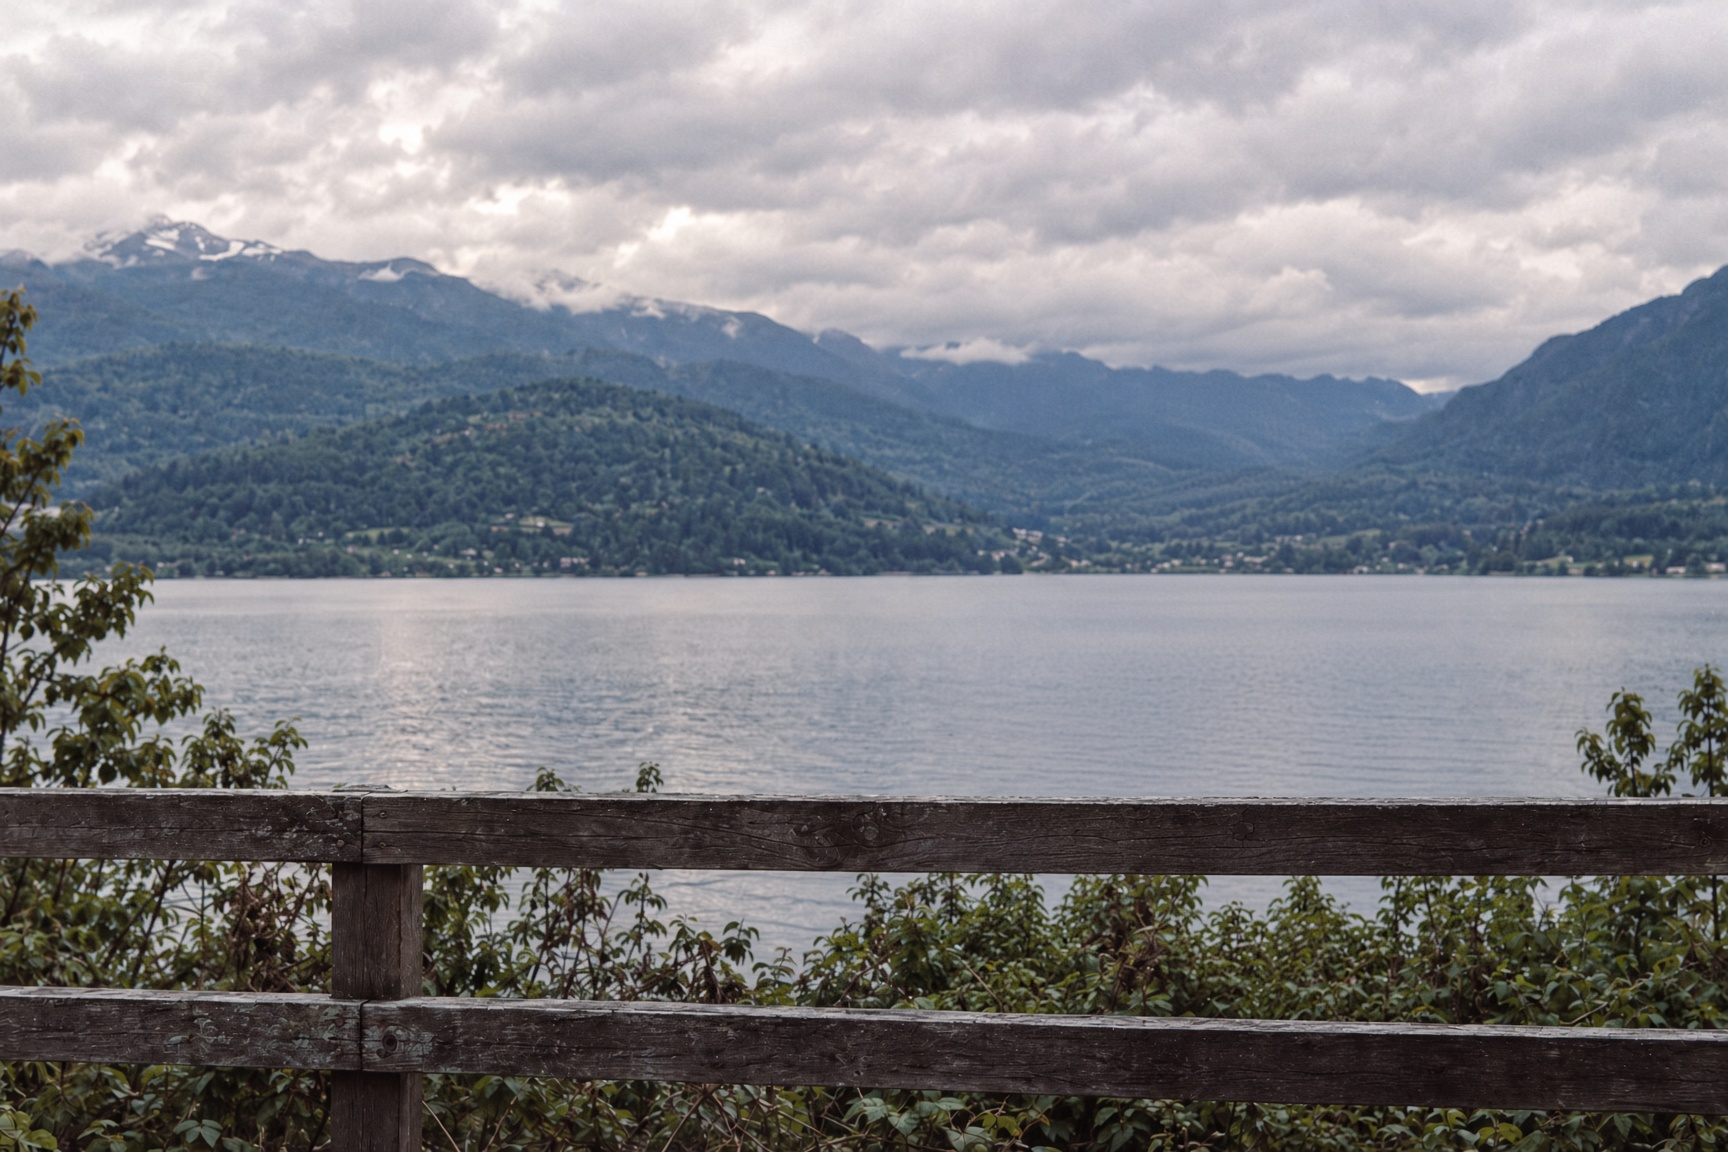
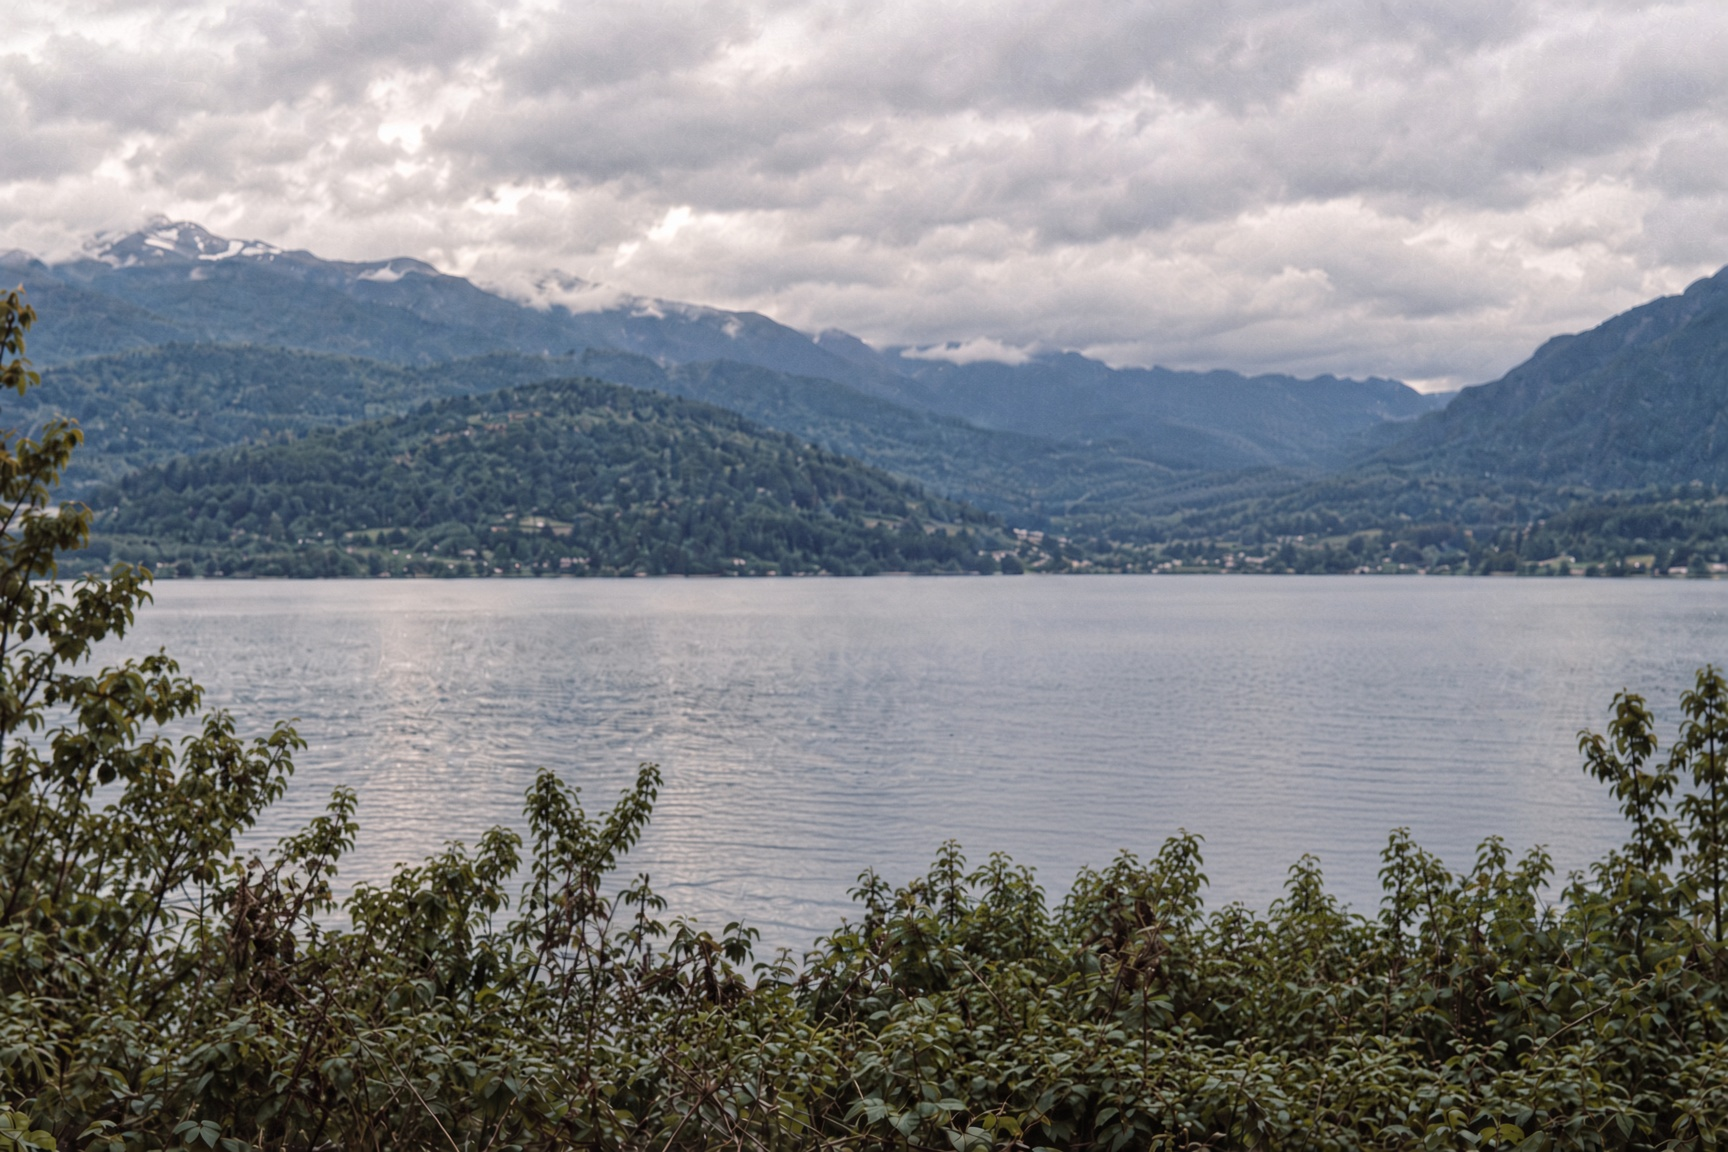
Rework hero: separated background, layered parallax, film grain and light pass
- New fully separated lake background; name anchored just above the water line
- Foreground pinned to the hero's bottom edge, background drifts down on scroll
  (eased, window-level pointer parallax, no snap on nav hover)
- Grain animated at 30fps from pre-rendered tiles; hero-only grain that thickens
  with scroll
- Old-film light pass on the hero: edge light leak, halation, vignette, dust and
  scratches, all intensifying as the hero scrolls away
- Plain-text nav with text shadow; lowercase UI copy; removed hero footer and
  "selected work" link
- INFORM entry renamed Inform / Evotess

Claude-Session: https://claude.ai/code/session_013LXVM2RLP5c624gmEQ1ZhY

diff --git a/public/hero-film.js b/public/hero-film.js
@@ -1,0 +1,140 @@
+/* Old-film light pass for the hero, hero only.
+   Two canvases: "light" (mix-blend-mode: screen) carries light leaks and halation; "dark" (normal blend) carries the vignette, dust and hairs.
+   Runs at 30fps, pauses when hidden or off-screen, freezes to a still frame
+   under prefers-reduced-motion. */
+(() => {
+  const hero = document.querySelector('.hero');
+  const light = document.querySelector('.hero-film-light');
+  const dark = document.querySelector('.hero-film-dark');
+  if (!hero || !(light instanceof HTMLCanvasElement) || !(dark instanceof HTMLCanvasElement)) return;
+  const lc = light.getContext('2d'), dc = dark.getContext('2d');
+  if (!lc || !dc) return;
+
+  const FPS = 30;
+  const reduced = matchMedia('(prefers-reduced-motion: reduce)');
+  let W = 0, H = 0, raf = 0, last = 0, visible = true, t0 = performance.now();
+  const rnd = (a, b) => a + Math.random() * (b - a);
+
+  /* Dust: short-lived specks and hairs. Scratches: taller lines that jitter for a few frames. */
+  const marks = [];
+
+  function resize() {
+    const b = hero.getBoundingClientRect();
+    const dpr = Math.min(window.devicePixelRatio || 1, 1.5);
+    W = Math.max(1, Math.round(b.width * dpr)); H = Math.max(1, Math.round(b.height * dpr));
+    for (const c of [light, dark]) { c.width = W; c.height = H; }
+    paint(performance.now());
+  }
+
+  /* 0 at the top of the page, 1 once the hero has fully scrolled away (set by app.js). */
+  const progress = () => Math.min(1, Math.max(0, parseFloat(hero.style.getPropertyValue('--grain-scroll')) || 0));
+  const A = (v) => Math.min(1, v).toFixed(3);
+
+  function paintLight(now) {
+    const t = now - t0;
+    const k = progress();
+    /* light: gentle at rest, blooming to ~2x as you scroll away */
+    const gain = .24 + k * 1.6;    // soft at rest, ~2x once scrolled away
+    lc.clearRect(0, 0, W, H);
+    lc.globalCompositeOperation = 'lighter';
+    /* Edge leak, after the reference frame: light bleeds in from the left edge,
+       orange to deep red, hottest (near white) at the bottom-left corner, with a thin
+       chromatic fringe (cyan/blue to warm) running along the top and bottom edges.
+       It breathes slowly instead of drifting. */
+    const br = (.85 + .15 * Math.sin(t * .00035)) * gain;   // breathing, scaled by scroll
+    const reach = W * (.24 + .04 * Math.sin(t * .00022) + k * .3);  // reaches further in as you scroll
+    // main left band
+    const lg = lc.createLinearGradient(0, 0, reach, 0);
+    lg.addColorStop(0, `rgba(255,120,40,${A(.85 * br)})`);
+    lg.addColorStop(.18, `rgba(235,60,30,${A(.55 * br)})`);
+    lg.addColorStop(.55, `rgba(150,30,20,${A(.22 * br)})`);
+    lg.addColorStop(1, 'rgba(120,20,20,0)');
+    lc.fillStyle = lg; lc.fillRect(0, 0, reach, H);
+    // bottom-left hot core
+    const hot = lc.createRadialGradient(W * .02, H * .9, 0, W * .02, H * .9, Math.max(W, H) * .42);
+    hot.addColorStop(0, `rgba(255,250,230,${A(.95 * br)})`);
+    hot.addColorStop(.18, `rgba(255,225,150,${A(.6 * br)})`);
+    hot.addColorStop(.5, `rgba(255,140,60,${A(.22 * br)})`);
+    hot.addColorStop(1, 'rgba(255,120,40,0)');
+    lc.fillStyle = hot; lc.fillRect(0, 0, W, H);
+    // warm bottom band creeping right from the hot corner
+    const bg = lc.createLinearGradient(0, H, 0, H * .72);
+    bg.addColorStop(0, `rgba(255,150,60,${A(.55 * br)})`); bg.addColorStop(1, 'rgba(255,120,40,0)');
+    const bx = lc.createLinearGradient(0, 0, W * .85, 0);
+    lc.save(); lc.fillStyle = bg; lc.fillRect(0, H * .72, W, H * .28);
+    lc.globalCompositeOperation = 'destination-out';
+    bx.addColorStop(0, 'rgba(0,0,0,0)'); bx.addColorStop(1, 'rgba(0,0,0,1)');
+    lc.fillStyle = bx; lc.fillRect(0, H * .72, W, H * .28); lc.restore();
+    lc.globalCompositeOperation = 'lighter';
+    // chromatic fringe along top and bottom edges, fading toward the right
+    const fr = Math.max(3, H * .012);
+    for (const [y0, y1] of [[0, fr * 2.2], [H, H - fr * 2.2]]) {
+      const eg = lc.createLinearGradient(0, y0, 0, y1);
+      eg.addColorStop(0, `rgba(120,200,255,${A(.75 * br)})`);
+      eg.addColorStop(.35, `rgba(90,140,255,${A(.45 * br)})`);
+      eg.addColorStop(.7, `rgba(255,160,90,${A(.25 * br)})`);
+      eg.addColorStop(1, 'rgba(255,120,40,0)');
+      const fx = lc.createLinearGradient(0, 0, W * .95, 0);
+      fx.addColorStop(0, 'rgba(0,0,0,0)'); fx.addColorStop(.25, 'rgba(0,0,0,0)'); fx.addColorStop(1, 'rgba(0,0,0,1)');
+      lc.save(); lc.fillStyle = eg; lc.fillRect(0, Math.min(y0, y1), W, Math.abs(y1 - y0));
+      lc.globalCompositeOperation = 'destination-out'; lc.fillStyle = fx; lc.fillRect(0, Math.min(y0, y1), W, Math.abs(y1 - y0)); lc.restore();
+      lc.globalCompositeOperation = 'lighter';
+    }
+    /* Halation: warm bloom where the sky and the water are brightest. */
+    const hg = lc.createRadialGradient(W * .45, H * .12, 0, W * .45, H * .12, Math.max(W, H) * .7);
+    const h = .5 + k * .9;   // halation also lifts with scroll
+    hg.addColorStop(0, `rgba(255,190,130,${A(.08 * h)})`); hg.addColorStop(.5, `rgba(255,150,100,${A(.03 * h)})`); hg.addColorStop(1, 'rgba(255,150,100,0)');
+    lc.fillStyle = hg; lc.fillRect(0, 0, W, H);
+    const wg = lc.createLinearGradient(0, H * .48, 0, H * .7);
+    wg.addColorStop(0, 'rgba(255,215,170,0)'); wg.addColorStop(.5, `rgba(255,215,170,${A(.07 * h)})`); wg.addColorStop(1, 'rgba(255,215,170,0)');
+    lc.fillStyle = wg; lc.fillRect(0, 0, W, H);
+    /* Light scratches. */
+    lc.globalCompositeOperation = 'source-over';
+    for (const m of marks) if (m.kind === 'scratch') {
+      lc.strokeStyle = `rgba(255,245,225,${A(m.a * (.35 + k * 1.35))})`; lc.lineWidth = m.w;
+      lc.beginPath(); lc.moveTo(m.x + rnd(-.6, .6), m.y); lc.lineTo(m.x + rnd(-.6, .6), m.y + m.len); lc.stroke();
+    }
+  }
+
+  function paintDark() {
+    dc.clearRect(0, 0, W, H);
+    const vg = dc.createRadialGradient(W * .5, H * .5, Math.min(W, H) * .35, W * .5, H * .5, Math.max(W, H) * .78);
+    vg.addColorStop(0, 'rgba(18,22,16,0)'); vg.addColorStop(1, 'rgba(18,22,16,.62)');
+    dc.fillStyle = vg; dc.fillRect(0, 0, W, H);
+    for (const m of marks) {
+      if (m.kind === 'speck') {
+        dc.fillStyle = `rgba(20,18,14,${m.a})`;
+        dc.beginPath(); dc.ellipse(m.x, m.y, m.w, m.w * rnd(.5, 1.4), rnd(0, 3), 0, Math.PI * 2); dc.fill();
+      } else if (m.kind === 'hair') {
+        dc.strokeStyle = `rgba(20,18,14,${m.a})`; dc.lineWidth = m.w; dc.beginPath(); dc.moveTo(m.x, m.y);
+        dc.bezierCurveTo(m.x + m.dx * .3, m.y + m.dy * .1, m.x + m.dx * .7, m.y + m.dy * .9, m.x + m.dx, m.y + m.dy); dc.stroke();
+      }
+    }
+  }
+
+  function spawn() {
+    for (let i = marks.length - 1; i >= 0; i--) if (--marks[i].life <= 0) marks.splice(i, 1);
+    if (reduced.matches) return;
+    const k = progress();
+    if (Math.random() < .25 + k * .35) marks.push({ kind: 'speck', x: rnd(0, W), y: rnd(0, H), w: rnd(.8, 2.6), a: rnd(.35, .8), life: rnd(1, 3) | 0 });
+    if (Math.random() < .08 + k * .2) marks.push({ kind: 'hair', x: rnd(0, W), y: rnd(0, H), dx: rnd(-40, 40), dy: rnd(20, 90), w: rnd(.6, 1.2), a: rnd(.35, .7), life: rnd(1, 4) | 0 });
+    for (let n = 0; n < 1 + (k * 3 | 0); n++) if (Math.random() < .015 + k * .45) marks.push({ kind: 'scratch', x: rnd(0, W), y: rnd(-H * .2, H * .6), len: rnd(H * .3, H * 1.2), w: rnd(.5, 1.3), a: rnd(.18, .45), life: rnd(3, 14) | 0 });
+  }
+
+  function paint(now) { spawn(); paintLight(now); paintDark(); }
+
+  function loop(now) {
+    raf = 0;
+    if (reduced.matches || document.hidden || !visible) return;
+    if (now - last >= 1000 / FPS) { last = now; paint(now); }
+    raf = requestAnimationFrame(loop);
+  }
+  const start = () => { if (!raf) raf = requestAnimationFrame(loop); };
+
+  let rt; const onResize = () => { clearTimeout(rt); rt = setTimeout(resize, 150); };
+  resize(); start();
+  new ResizeObserver(onResize).observe(hero);
+  new IntersectionObserver((e) => { visible = e[0].isIntersecting; if (visible) start(); }).observe(hero);
+  document.addEventListener('visibilitychange', start);
+  reduced.addEventListener('change', () => { marks.length = 0; paint(performance.now()); start(); });
+})();

diff --git a/public/hero-grain.js b/public/hero-grain.js
@@ -1,59 +1,88 @@
+/* Animated film grain. A handful of small noise tiles are generated once;
+   each frame paints one of them as a repeating pattern at a random offset,
+   so the whole screen flickers like film at ~12fps for almost no CPU. */
 function mountHeroGrain(canvas) {
   const ctx = canvas.getContext('2d');
   if (!ctx) return () => {};
 
-  let resizeTimer;
-  let disposed = false;
+  const TILE = 192, FRAMES = 6;
+  const settings = { fps: 30, contrast: Number(canvas.dataset.contrast) || 1, size: Number(canvas.dataset.size) || 1 };
+  const reduced = matchMedia('(prefers-reduced-motion: reduce)');
+  let tiles = [];
+  let resizeTimer, raf = 0, last = 0, disposed = false, frame = 0;
 
-  function draw() {
-    if (disposed) return;
+  function makeTile() {
+    const c = document.createElement('canvas');
+    c.width = c.height = TILE;
+    const tctx = c.getContext('2d');
+    const image = tctx.createImageData(TILE, TILE);
+    const px = image.data;
+    for (let i = 0; i < px.length; i += 4) {
+      const v = Math.max(0, Math.min(255, Math.round(128 + (Math.random() * 256 - 128) * settings.contrast)));
+      px[i] = px[i + 1] = px[i + 2] = v;
+      px[i + 3] = 255;
+    }
+    tctx.putImageData(image, 0, 0);
+    return ctx.createPattern(c, 'repeat');
+  }
+  function rebuild() { tiles = []; for (let i = 0; i < FRAMES; i++) tiles.push(makeTile()); }
+  rebuild();
 
+  function resize() {
     const bounds = canvas.getBoundingClientRect();
     if (bounds.width <= 0 || bounds.height <= 0) return;
-
     const dpr = Math.min(window.devicePixelRatio || 1, 2);
     const width = Math.max(1, Math.round(bounds.width * dpr));
     const height = Math.max(1, Math.round(bounds.height * dpr));
-
-    if (canvas.width === width && canvas.height === height) return;
-
-    canvas.width = width;
-    canvas.height = height;
-
-    const image = ctx.createImageData(width, height);
-    const pixels = image.data;
-
-    for (let i = 0; i < pixels.length; i += 4) {
-      const value = Math.floor(Math.random() * 256);
-      pixels[i] = value;
-      pixels[i + 1] = value;
-      pixels[i + 2] = value;
-      pixels[i + 3] = 255;
+    if (canvas.width !== width || canvas.height !== height) {
+      canvas.width = width;
+      canvas.height = height;
     }
-
-    ctx.putImageData(image, 0, 0);
+    paint();
   }
 
-  function scheduleDraw() {
+  function paint() {
+    ctx.save();
+    ctx.scale(settings.size, settings.size);
+    ctx.translate(-Math.floor(Math.random() * TILE), -Math.floor(Math.random() * TILE));
+    ctx.fillStyle = tiles[frame];
+    ctx.fillRect(0, 0, canvas.width / settings.size + TILE, canvas.height / settings.size + TILE);
+    ctx.restore();
+    frame = (frame + 1) % FRAMES;
+  }
+
+  function loop(now) {
+    raf = 0;
+    if (disposed || reduced.matches || document.hidden) return;
+    if (now - last >= 1000 / settings.fps) { last = now; paint(); }
+    raf = requestAnimationFrame(loop);
+  }
+  function start() { if (!raf) raf = requestAnimationFrame(loop); }
+
+  function scheduleResize() {
     clearTimeout(resizeTimer);
-    resizeTimer = setTimeout(draw, 150);
+    resizeTimer = setTimeout(resize, 150);
   }
 
-  canvas.width = 0;
-  canvas.height = 0;
-  draw();
+  resize();
+  start();
 
-  const observer = new ResizeObserver(scheduleDraw);
+  const observer = new ResizeObserver(scheduleResize);
   observer.observe(canvas);
-  window.addEventListener('resize', scheduleDraw);
+  window.addEventListener('resize', scheduleResize);
+  document.addEventListener('visibilitychange', start);
+  reduced.addEventListener('change', start);
 
   return function cleanup() {
     disposed = true;
+    cancelAnimationFrame(raf);
     clearTimeout(resizeTimer);
     observer.disconnect();
-    window.removeEventListener('resize', scheduleDraw);
+    window.removeEventListener('resize', scheduleResize);
+    document.removeEventListener('visibilitychange', start);
   };
 }
 
-const heroGrain = document.querySelector('.hero-grain');
-if (heroGrain instanceof HTMLCanvasElement) mountHeroGrain(heroGrain);
+document.querySelectorAll('.hero-grain, .hero-grain-scroll').forEach((c) => {
+  if (c instanceof HTMLCanvasElement) mountHeroGrain(c);
+});

diff --git a/public/hero.css b/public/hero.css
@@ -1,19 +1,45 @@
-.hero-type { top:23%; z-index:2; }
+/* Name anchored to the water line: the lake horizon sits at ~50% of the
+   background image and object-position keeps it at the hero's vertical
+   centre at every viewport, so bottom-anchoring keeps the name just above it. */
+.hero-type { top:auto; bottom:47%; z-index:2; }
+.hero-type .eyebrow {
+ font-size:13px; letter-spacing:1.4px; margin:0 0 6px;
+ color:#f3dc7a; text-shadow:0 1px 2px #1c221a, 0 0 14px #1c221acc;
+}
+h1 { padding-bottom:.04em; }
 .photo { background:var(--ink); }
 .photo img,.hero-foreground {
  position:absolute; inset:0; display:block; width:100%; height:100%;
  object-fit:cover; object-position:60% 50%;
- transform:translate3d(0,var(--photo-shift,0px),0);
+ will-change:transform;
 }
-.hero-foreground {z-index:3;pointer-events:none;}
 /* Both photographs share a 3:2 coordinate system. Never scale them independently. */
+.photo img { transform:translate3d(var(--bg-x,0px),var(--bg-shift,0px),0) scale(1.04); }
+.hero-foreground { z-index:3; pointer-events:none;
+ transform:translate3d(var(--fg-x,0px),var(--fg-shift,0px),0) scale(1.02); transform-origin:50% 100%; }
 .photo canvas,.photo-shade {display:none;}
 .period,.dot {color:var(--yellow);}
+/* Old-film light pass: leaks/halation/flicker screened over the photo, vignette/dust in normal blend.
+   Above the portrait (3), below the scroll grain (4) and the nav (5). */
+.hero-film-light,.hero-film-dark {position:absolute;inset:0;z-index:4;width:100%;height:100%;pointer-events:none;}
+.hero-film-light {mix-blend-mode:screen;opacity:.9;}
+.hero-film-dark {opacity:.9;}
+/* Hero-only grain that thickens as you scroll away (0 → .6 opacity), above the portrait, below the nav */
+.hero-grain-scroll {position:absolute;inset:0;z-index:4;width:100%;height:100%;opacity:calc(var(--grain-scroll,0)*.6);mix-blend-mode:overlay;pointer-events:none;}
 .hero-grain {position:fixed;inset:0;z-index:10;width:100%;height:100%;opacity:.15;mix-blend-mode:soft-light;pointer-events:none;}
-.topbar,.hero-bottom,.hero-foot {z-index:5;}
-@media(max-width:1050px){.hero-type{top:25%;}}
+.topbar,.hero-bottom {z-index:5;}
+
+/* Readable yellow UI over the clouds: text attributes only, no boxes */
+.topbar nav a, .topbar .signature, .hero-type .eyebrow, .hero-description {
+ text-shadow:0 1px 1px #1c221a, 0 0 10px #1c221a, 0 0 22px #1c221a99;
+}
+.topbar nav a { font-weight:600; font-size:15px; letter-spacing:.2px; color:#f3dc7a; }
+.topbar nav a:hover { color:#fff1a8; border-color:transparent; text-decoration:underline; text-underline-offset:6px; }
+
+@media(max-width:1050px){.hero-type{bottom:47%;}}
 @media(max-width:650px){
  .photo img,.hero-foreground{object-position:69% center;}
- .hero-type{top:25%;}
+ .hero-type{bottom:47%;}
+ .hero-type .eyebrow{font-size:10px;margin-bottom:4px;}
 }
 @media(prefers-reduced-motion:reduce){.photo img,.hero-foreground{transform:none;}}

diff --git a/public/app.js b/public/app.js
@@ -2,16 +2,32 @@
 'use strict';
 const hero=document.querySelector('.hero');
 const reduced=matchMedia('(prefers-reduced-motion: reduce)');
-let frame=0,visible=true;
-function render(){
+const hover=matchMedia('(hover: hover) and (pointer: fine)');
+/* targets from input, current values eased toward them every frame */
+let tx=0,ty=0,cx=0,cy=0,cs=0,frame=0,visible=true;
+const set=(k,v)=>hero.style.setProperty(k,v.toFixed(2)+'px');
+function tick(){
  frame=0;
- const progress=Math.min(Math.max(scrollY,0),hero.offsetHeight);
- hero.style.setProperty('--photo-shift',reduced.matches?'0px':(-progress*.035).toFixed(2)+'px');
+ if(reduced.matches){for(const v of['--bg-shift','--fg-shift','--bg-x','--fg-x'])hero.style.setProperty(v,'0px');return;}
+ const ts=Math.min(Math.max(scrollY,0),hero.offsetHeight);
+ cs+=(ts-cs)*.25; cx+=(tx-cx)*.08; cy+=(ty-cy)*.08;
+ /* The foreground PNG ends at the hero's bottom edge, so it stays pinned.
+    The background drifts DOWN as you scroll (slower than the page = farther away);
+    the strip it uncovers is at the top of the hero, which has already scrolled off-screen,
+    so the hero's bottom edge is always covered. Pointer only nudges the foreground sideways. */
+ set('--bg-shift',cs*.07+cy*8); set('--fg-shift',0);
+ set('--bg-x',cx*5); set('--fg-x',cx*10);
+ hero.style.setProperty('--grain-scroll',(cs/hero.offsetHeight).toFixed(3));
+ if(Math.abs(ts-cs)>.05||Math.abs(tx-cx)>.005||Math.abs(ty-cy)>.005)schedule();
 }
-function schedule(){if(!frame&&visible&&!document.hidden)frame=requestAnimationFrame(render);}
+function schedule(){if(!frame&&visible&&!document.hidden)frame=requestAnimationFrame(tick);}
 addEventListener('scroll',schedule,{passive:true});
 addEventListener('resize',schedule,{passive:true});
-reduced.addEventListener('change',render);
+if(hover.matches){
+ /* window-level so hovering the nav or leaving the hero never snaps the layers */
+ addEventListener('pointermove',e=>{tx=e.clientX/innerWidth-.5;ty=e.clientY/innerHeight-.5;schedule();},{passive:true});
+}
+reduced.addEventListener('change',schedule);
 document.addEventListener('visibilitychange',schedule);
 new IntersectionObserver(entries=>{visible=entries[0].isIntersecting;if(visible)schedule();}).observe(hero);
 function reveal(el,delay=0){
@@ -22,5 +38,5 @@ function reveal(el,delay=0){
 document.querySelectorAll('.enter').forEach((el,i)=>reveal(el,100+i*80));
 const observer=new IntersectionObserver(entries=>{for(const e of entries)if(e.isIntersecting){reveal(e.target);observer.unobserve(e.target);}},{threshold:.12});
 document.querySelectorAll('.reveal').forEach(el=>observer.observe(el));
-render();
+tick();
 })();
